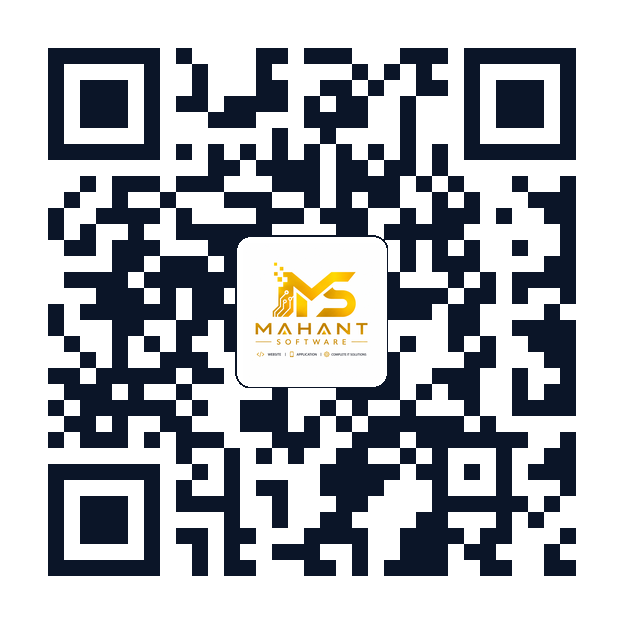
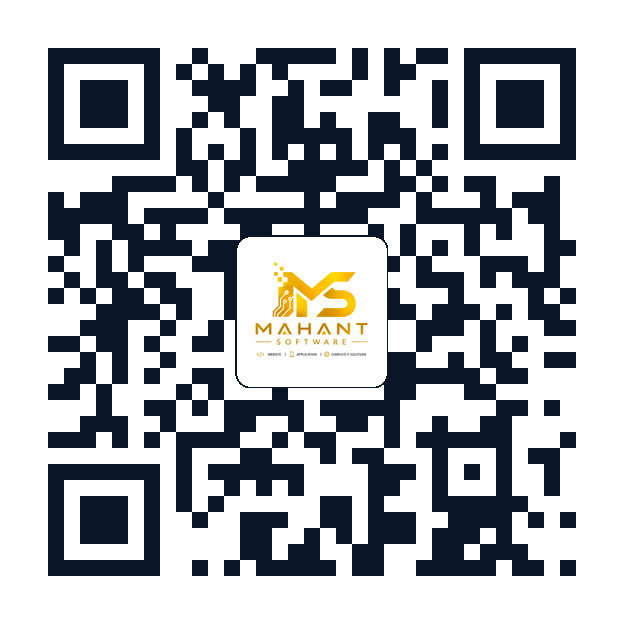
feat: update contact details and direct phonebook save integration

Changed region(s): [[0.0609, 0.0609, 0.9439, 0.9439], [0.274, 0.6699, 0.3045, 0.7003]]

diff --git a/app.js b/app.js
@@ -2,16 +2,21 @@
 document.addEventListener('DOMContentLoaded', () => {
   // Current Profile Configuration
   const profile = {
-    name: "Mahant Software",
-    owner: "Business Development & Tech Solutions",
+    name: "Mahant Software - Yash Panchal",
+    company: "Mahant Software",
+    contactPerson: "Yash Panchal",
+    owner: "Yash Panchal (Founder & Tech Solutions)",
     tagline: "Custom Software, Mobile Apps & Digital Solutions",
     bio: "Mahant Software is a modern IT development studio specializing in high-performance web applications, mobile apps, digital business cards, and end-to-end automation for growing businesses.",
-    phone: "+91 90041 68049",
+    phone: "+91 9004168049",
+    phoneDisplay: "+91 90041 68049",
     phoneClean: "919004168049",
-    email: "contact@mahantsoftware.com",
-    website: "https://mahantsoftware.com",
-    cardUrl: window.location.href.split('?')[0].replace(/\/$/, '') || "https://card.mahantsoftware.com",
-    location: "Gujarat, India",
+    email: "mahantsoftware@gmail.com",
+    website: "http://mahantsoftware.com/",
+    cardUrl: window.location.href.split('?')[0].replace(/\/$/, '') || "http://mahantsoftware.com/",
+    address: "1006, 10th floor, DGS Sheetal Sahyog Building, Opp Laxman Nagar Police Station, Kurar village, Malad East, Mumbai - 400097",
+    landmark: "St. Francis School Main Gate",
+    location: "Malad East, Mumbai, Maharashtra, India",
     rating: 5.0,
     reviewCount: 48,
     services: [
@@ -167,40 +172,80 @@ document.addEventListener('DOMContentLoaded', () => {
   }
   renderTestimonials();
 
-  // 5. Download VCF (vCard Contact Card)
-  function downloadVCard() {
+  // 5. Save to Phonebook (Direct 1-Click for iOS & Android)
+  async function saveContactToPhone(e) {
+    if (e && e.preventDefault) e.preventDefault();
+
+    const isIOS = /iPad|iPhone|iPod/.test(navigator.userAgent) && !window.MSStream;
+
+    // Standard vCard 3.0 formatting strictly formatted for maximum mobile phonebook compatibility
     const vCardData = [
       'BEGIN:VCARD',
       'VERSION:3.0',
-      `FN:${profile.name}`,
-      `ORG:${profile.name}`,
-      `TITLE:${profile.owner}`,
-      `TEL;TYPE=WORK,VOICE:${profile.phone}`,
-      `TEL;TYPE=CELL,VOICE:${profile.phone}`,
-      `EMAIL;TYPE=WORK:${profile.email}`,
-      `URL;TYPE=WORK:${profile.website}`,
-      `ADR;TYPE=WORK:;;${profile.location};;;;`,
-      `NOTE:Smart Digital Business Card: ${profile.cardUrl}`,
+      'PRODID:-//Mahant Software//Digital Card//EN',
+      'N:;Mahant Software - Yash Panchal;;;',
+      'FN:Mahant Software - Yash Panchal',
+      'ORG:Mahant Software',
+      'TITLE:Founder & Lead Developer',
+      'TEL;TYPE=CELL,VOICE,PREF:+919004168049',
+      'TEL;TYPE=WORK,VOICE:+919004168049',
+      'EMAIL;TYPE=INTERNET,WORK,PREF:mahantsoftware@gmail.com',
+      'URL;TYPE=WORK:http://mahantsoftware.com/',
+      'ADR;TYPE=WORK,POSTAL,PARCEL:;;1006, 10th floor, DGS Sheetal Sahyog Building, Opp Laxman Nagar Police Station, Kurar village;Malad East, Mumbai;Maharashtra;400097;India',
+      'LABEL;TYPE=WORK:1006, 10th floor, DGS Sheetal Sahyog Building, Opp Laxman Nagar Police Station, Kurar village, Malad East, Mumbai - 400097. Landmark: St. Francis School Main Gate',
+      'NOTE:Mahant Software - Yash Panchal\\nPhone: +91 9004168049\\nEmail: mahantsoftware@gmail.com\\nWebsite: http://mahantsoftware.com/\\nAddress: 1006, 10th floor, DGS Sheetal Sahyog Building, Opp Laxman Nagar Police Station, Kurar village, Malad East, Mumbai - 400097\\nLandmark: St. Francis School Main Gate',
       'END:VCARD'
     ].join('\r\n');
 
-    const blob = new Blob([vCardData], { type: 'text/vcard;charset=utf-8;' });
-    const url = URL.createObjectURL(blob);
+    // Method 1: Web Share API (Primary for modern Android phones)
+    // Passes the .vcf file directly into native contacts/share picker without downloading to disk
+    try {
+      const vcfBlob = new Blob([vCardData], { type: 'text/vcard;charset=utf-8' });
+      const vcfFile = new File([vcfBlob], 'Mahant_Software_Yash_Panchal.vcf', { type: 'text/vcard' });
+
+      if (!isIOS && navigator.canShare && navigator.canShare({ files: [vcfFile] })) {
+        await navigator.share({
+          files: [vcfFile],
+          title: 'Mahant Software - Yash Panchal',
+          text: 'Save Mahant Software - Yash Panchal to your contacts'
+        });
+        showToast('Tap Contacts to save directly to your phonebook!');
+        return;
+      }
+    } catch (err) {
+      if (err.name === 'AbortError') {
+        // User dismissed the native dialog
+        return;
+      }
+      console.log('Web Share fallback:', err);
+    }
+
+    // Method 2: iOS Safari Direct Navigation
+    // Navigating directly to a .vcf file on iOS immediately opens the native Apple Contacts card sheet
+    if (isIOS) {
+      window.location.href = 'mahant_software.vcf';
+      showToast('Opening contact card... Tap "Save" in top-right.');
+      return;
+    }
+
+    // Method 3: Direct Download/Open Fallback (Desktop, older Android, or unsupported browsers)
+    const vcfBlob = new Blob([vCardData], { type: 'text/vcard;charset=utf-8' });
+    const url = URL.createObjectURL(vcfBlob);
     const link = document.createElement('a');
     link.href = url;
-    link.setAttribute('download', `${profile.name.replace(/\s+/g, '_')}_Contact.vcf`);
+    link.setAttribute('download', 'Mahant_Software_Yash_Panchal.vcf');
     document.body.appendChild(link);
     link.click();
     document.body.removeChild(link);
-    URL.revokeObjectURL(url);
+    setTimeout(() => URL.revokeObjectURL(url), 2000);
 
-    showToast('Contact file downloaded! Tap to add to phonebook.');
+    showToast('Contact opened! Tap to save directly.');
   }
 
   const btnDownloadVcard = document.getElementById('btnDownloadVcard');
   const bottomSaveBtn = document.getElementById('bottomSaveBtn');
-  if (btnDownloadVcard) btnDownloadVcard.addEventListener('click', downloadVCard);
-  if (bottomSaveBtn) bottomSaveBtn.addEventListener('click', downloadVCard);
+  if (btnDownloadVcard) btnDownloadVcard.addEventListener('click', saveContactToPhone);
+  if (bottomSaveBtn) bottomSaveBtn.addEventListener('click', saveContactToPhone);
 
   // 6. Copy Card Link
   const btnCopyCardLink = document.getElementById('btnCopyCardLink');

diff --git a/index.html b/index.html
@@ -64,7 +64,7 @@
         </div>
 
         <h1 class="profile-name" id="profileName">Mahant Software</h1>
-        <p class="profile-owner" id="profileOwner">Tech Solutions & Business Automation</p>
+        <p class="profile-owner" id="profileOwner">Yash Panchal &bull; Founder & Tech Solutions</p>
         <p class="profile-tagline" id="profileTagline">Custom Software, Mobile Apps & Digital Solutions</p>
 
         <!-- Rating & Trust Badge -->
@@ -85,29 +85,29 @@
             <div class="icon-box"><i class="ri-phone-fill"></i></div>
             <span>Call</span>
           </a>
-          <a href="https://wa.me/919004168049?text=Hello%20Mahant%20Software,%20I%20saw%20your%20Digital%20Card%20and%20want%20to%20inquire." target="_blank" class="connect-action-btn whatsapp" id="btnWhatsapp" title="WhatsApp">
+          <a href="https://wa.me/919004168049?text=Hello%20Yash,%20I%20saw%20your%20Digital%20Card%20and%20want%20to%20inquire." target="_blank" class="connect-action-btn whatsapp" id="btnWhatsapp" title="WhatsApp">
             <div class="icon-box"><i class="ri-whatsapp-fill"></i></div>
             <span>WhatsApp</span>
           </a>
-          <a href="mailto:contact@mahantsoftware.com" class="connect-action-btn email" id="btnEmail" title="Email">
+          <a href="mailto:mahantsoftware@gmail.com" class="connect-action-btn email" id="btnEmail" title="Email">
             <div class="icon-box"><i class="ri-mail-fill"></i></div>
             <span>Email</span>
           </a>
-          <a href="https://maps.google.com/?q=Mahant+Software+Gujarat" target="_blank" class="connect-action-btn location" id="btnLocation" title="Location">
+          <a href="https://www.google.com/maps/search/?api=1&query=1006+DGS+Sheetal+Sahyog+Building+Opp+Laxman+Nagar+Police+Station+Kurar+village+Malad+East+Mumbai+400097" target="_blank" class="connect-action-btn location" id="btnLocation" title="Location">
             <div class="icon-box"><i class="ri-map-pin-2-fill"></i></div>
             <span>Directions</span>
           </a>
-          <a href="https://mahantsoftware.com" target="_blank" class="connect-action-btn website" id="btnWebsite" title="Website">
+          <a href="http://mahantsoftware.com/" target="_blank" class="connect-action-btn website" id="btnWebsite" title="Website">
             <div class="icon-box"><i class="ri-global-line"></i></div>
             <span>Website</span>
           </a>
         </div>
 
-        <!-- Big Primary CTA: Add to Phonebook -->
-        <button class="btn-primary-vcard" id="btnDownloadVcard">
+        <!-- Big Primary CTA: Save to Phonebook -->
+        <a href="mahant_software.vcf" class="btn-primary-vcard" id="btnDownloadVcard">
           <i class="ri-user-add-line"></i>
-          <span>Add to Phonebook</span>
-        </button>
+          <span>Save to Phonebook</span>
+        </a>
       </div>
     </header>
 
@@ -222,16 +222,32 @@
           </div>
           <div class="detail-rows">
             <div class="detail-row">
+              <span class="row-label"><i class="ri-user-star-line"></i> Contact Person:</span>
+              <span class="row-value"><strong>Yash Panchal (Mahant Software)</strong></span>
+            </div>
+            <div class="detail-row">
+              <span class="row-label"><i class="ri-phone-line"></i> Phone:</span>
+              <span class="row-value"><a href="tel:+919004168049" style="color:var(--primary);font-weight:600;text-decoration:none;">+91 9004168049</a></span>
+            </div>
+            <div class="detail-row">
+              <span class="row-label"><i class="ri-mail-line"></i> Email:</span>
+              <span class="row-value"><a href="mailto:mahantsoftware@gmail.com" style="color:var(--primary);font-weight:600;text-decoration:none;">mahantsoftware@gmail.com</a></span>
+            </div>
+            <div class="detail-row">
+              <span class="row-label"><i class="ri-global-line"></i> Website:</span>
+              <span class="row-value"><a href="http://mahantsoftware.com/" target="_blank" style="color:var(--primary);font-weight:600;text-decoration:none;">http://mahantsoftware.com/</a></span>
+            </div>
+            <div class="detail-row">
+              <span class="row-label"><i class="ri-map-pin-line"></i> Address:</span>
+              <span class="row-value">1006, 10th floor, DGS Sheetal Sahyog Building, Opp Laxman Nagar Police Station, Kurar village, Malad East, Mumbai - 400097.</span>
+            </div>
+            <div class="detail-row">
+              <span class="row-label"><i class="ri-compass-3-line"></i> Landmark:</span>
+              <span class="row-value">St. Francis School Main Gate</span>
+            </div>
+            <div class="detail-row">
               <span class="row-label"><i class="ri-time-line"></i> Working Hours:</span>
               <span class="row-value">Mon - Sat: 9:30 AM - 7:30 PM</span>
-            </div>
-            <div class="detail-row">
-              <span class="row-label"><i class="ri-map-pin-line"></i> Operating Region:</span>
-              <span class="row-value">Gujarat, India (Serving Worldwide)</span>
-            </div>
-            <div class="detail-row">
-              <span class="row-label"><i class="ri-shield-check-line"></i> Service Model:</span>
-              <span class="row-value">Custom IT, Web & App Consulting</span>
             </div>
           </div>
         </div>
@@ -351,10 +367,10 @@
         <i class="ri-share-forward-line"></i>
         <span>Share</span>
       </button>
-      <button class="bar-btn primary" id="bottomSaveBtn">
+      <a href="mahant_software.vcf" class="bar-btn primary" id="bottomSaveBtn">
         <i class="ri-user-add-line"></i>
-        <span>Save Contact</span>
-      </button>
+        <span>Save to Phonebook</span>
+      </a>
     </footer>
 
   </div>

diff --git a/style.css b/style.css
@@ -313,6 +313,7 @@ body {
   cursor: pointer;
   box-shadow: 0 6px 18px rgba(37, 99, 235, 0.35);
   transition: all 0.2s ease;
+  text-decoration: none;
 }
 
 .btn-primary-vcard:hover {
@@ -1024,6 +1025,7 @@ body {
   cursor: pointer;
   transition: all 0.2s ease;
   border: none;
+  text-decoration: none;
 }
 
 .bar-btn.secondary {

diff --git a/generate_qr.py b/generate_qr.py
@@ -2,7 +2,7 @@ import os
 import qrcode
 from PIL import Image
 
-def generate_card_qr(url="https://card.mahantsoftware.com", output_path="assets/mahant_software_qr.png", logo_path="assets/logo.png"):
+def generate_card_qr(url="http://mahantsoftware.com/", output_path="assets/mahant_software_qr.png", logo_path="assets/logo.png"):
     os.makedirs(os.path.dirname(output_path), exist_ok=True)
     
     # Generate QR Code with high error correction for logo embedding
